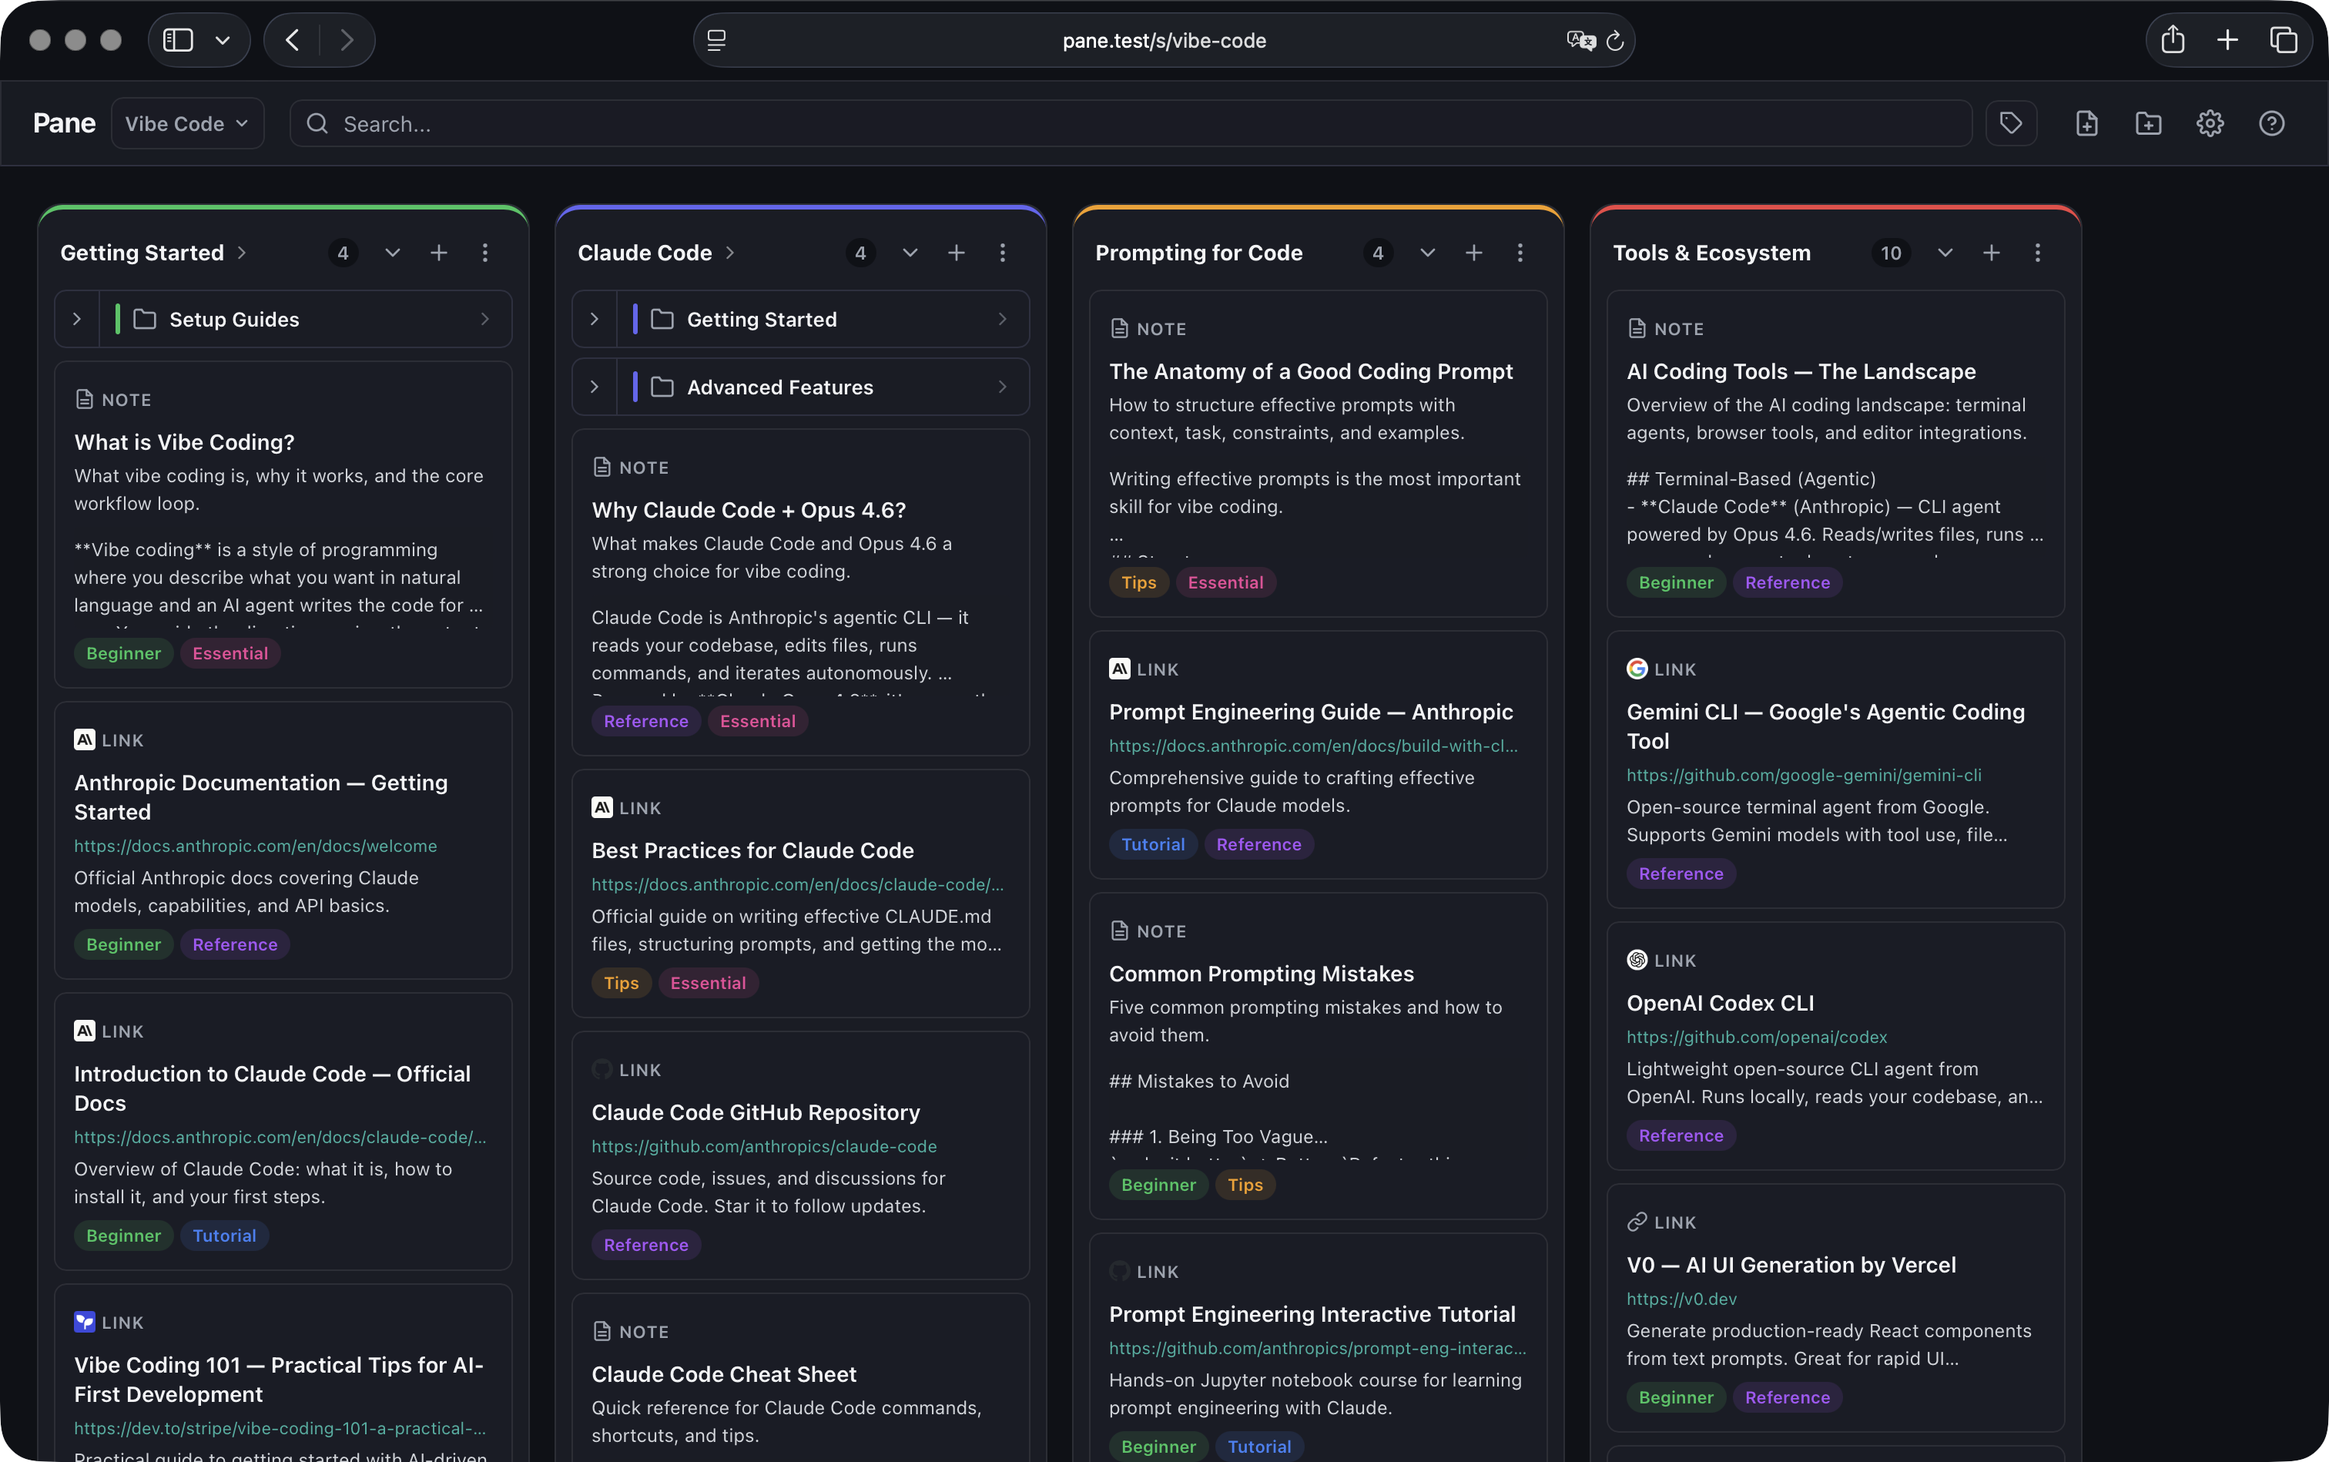
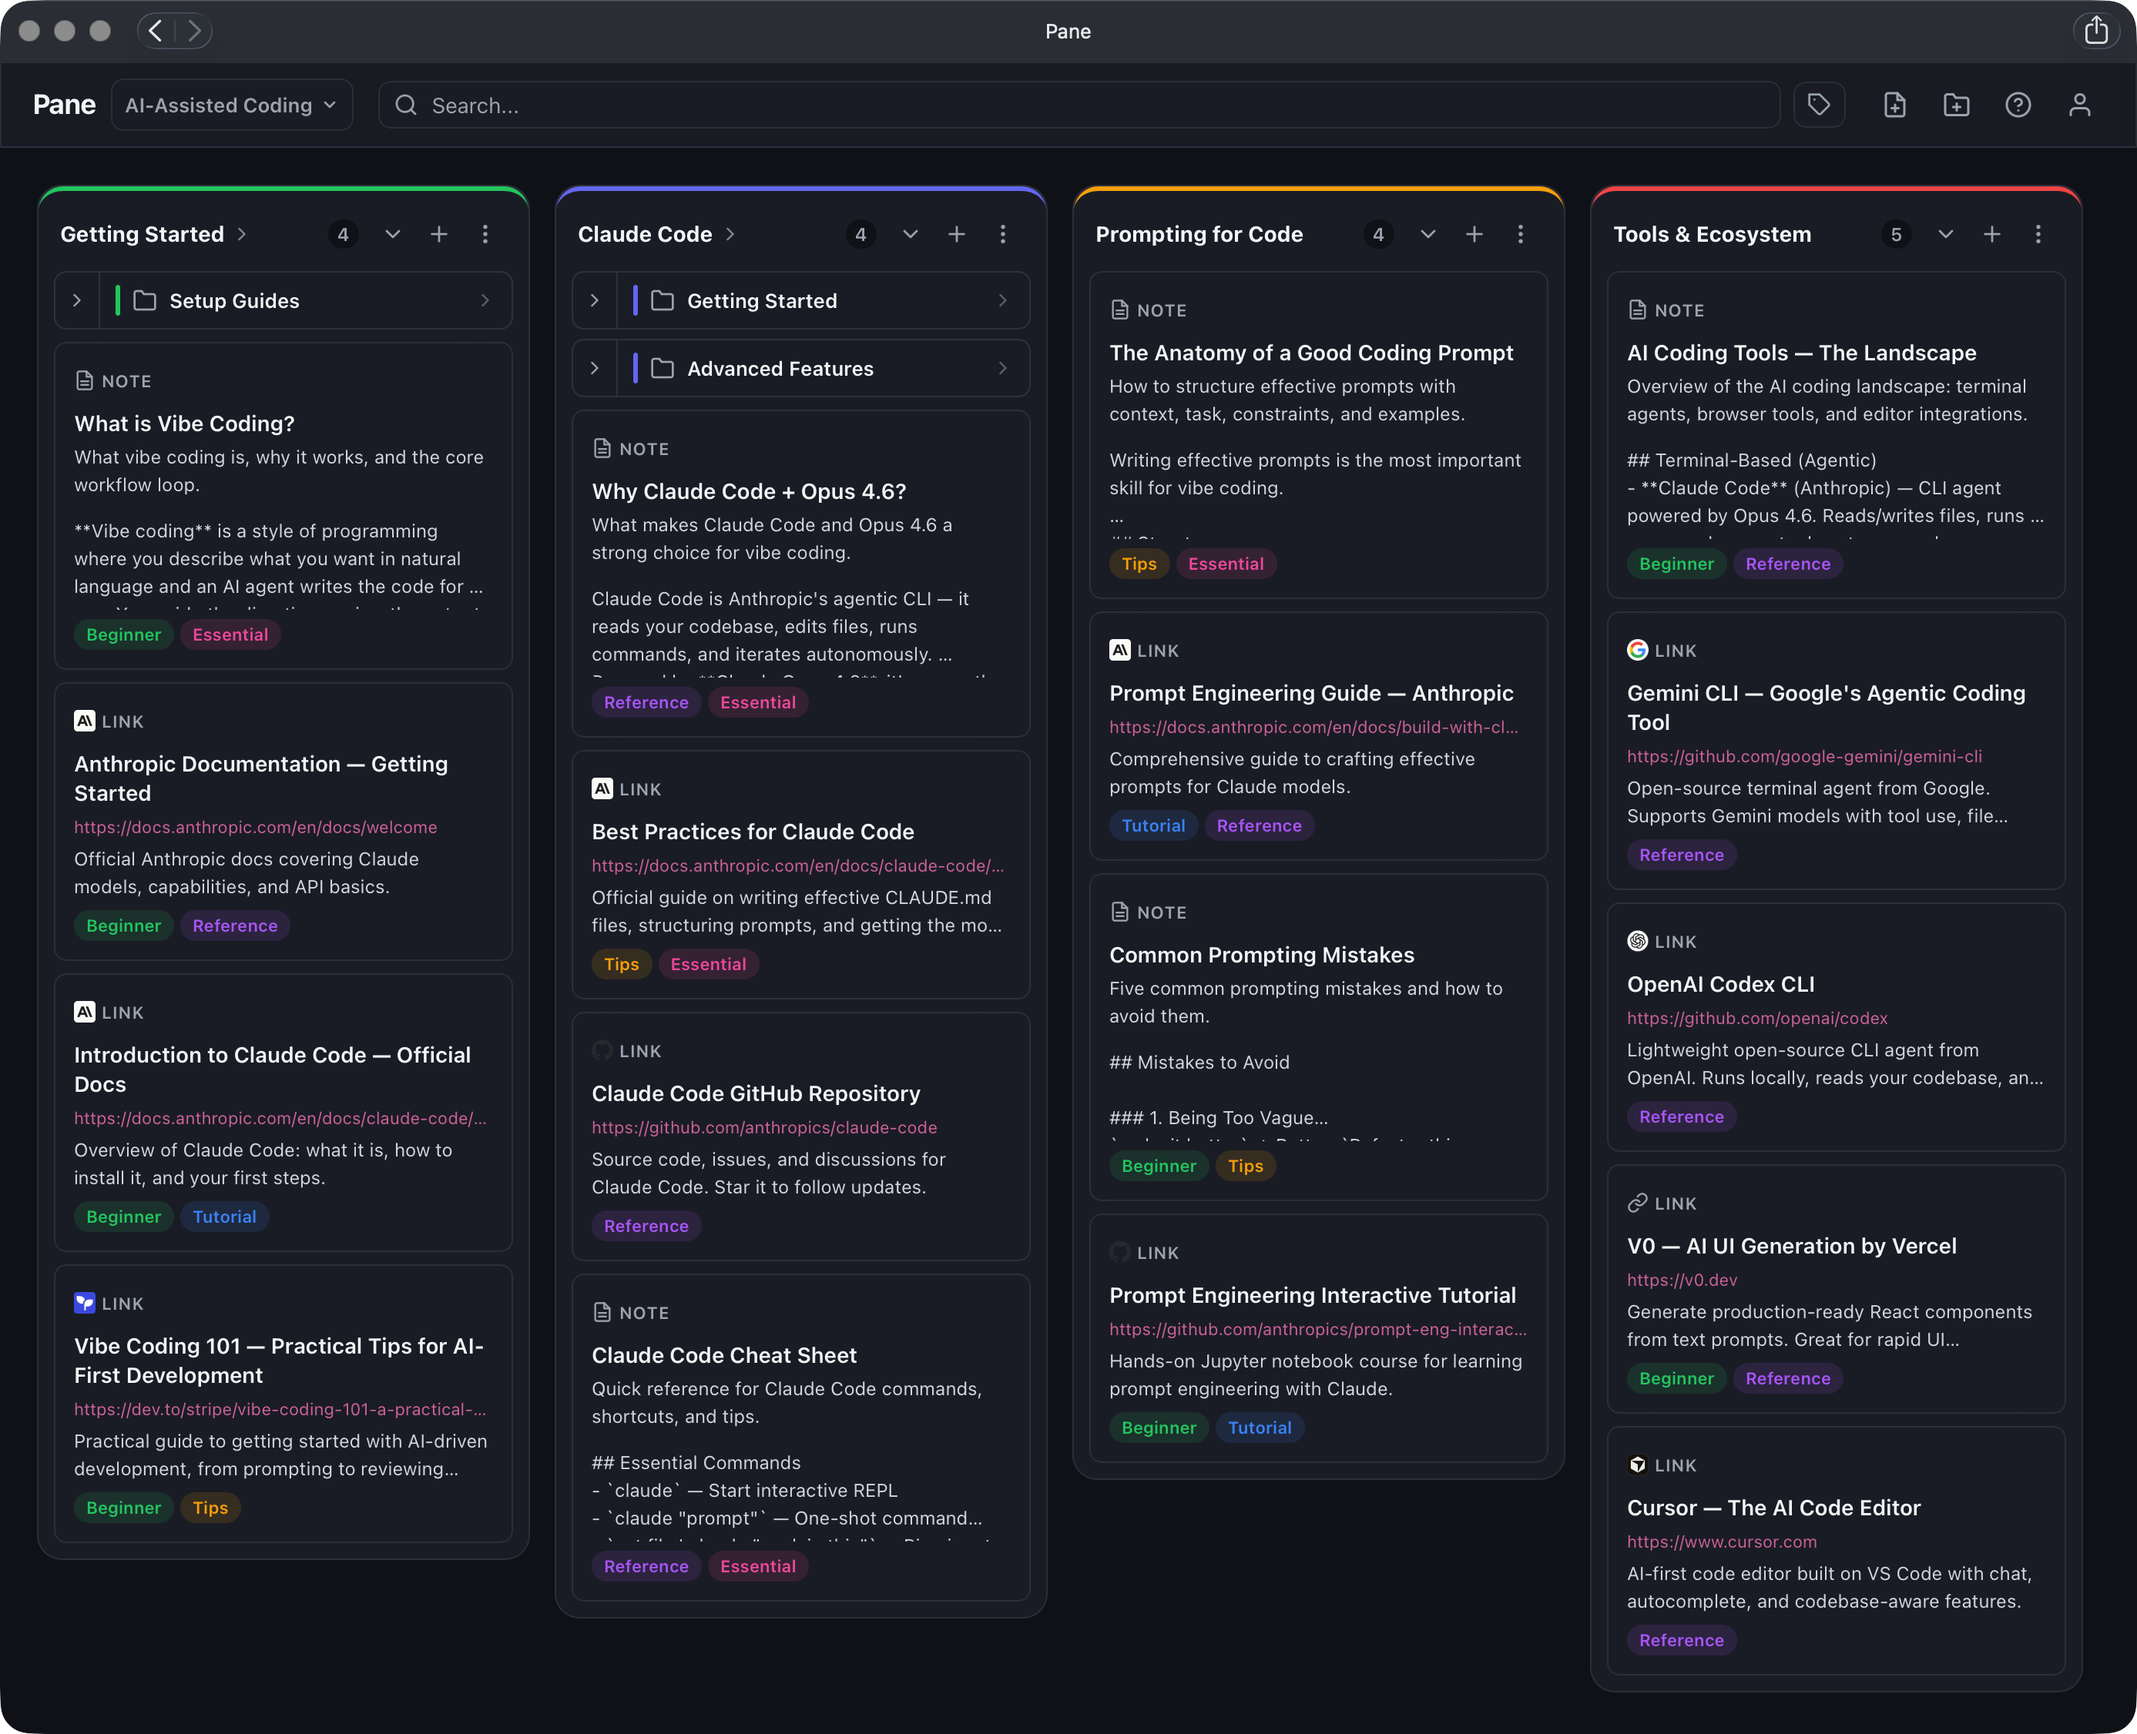
Fix security issue, remove dead code, and clean up duplicates
- Use crypto.randomInt() instead of Math.random() for password reset codes
- Replace 3 duplicate trapFocus implementations with shared action import
- Delete unused legacy schema.ts file
- Remove dead exports: needsFreshSetup(), slugExists()
- Fix unsafe type assertion in getLegacyGlobalDb() to return proper union type
- Track blur timeout for cleanup in SpaceSharingOverlay
- Update docs screenshot

diff --git a/src/lib/components/UserOverlay.svelte b/src/lib/components/UserOverlay.svelte
@@ -5,6 +5,7 @@
 	import { PALETTES, type PaletteId } from '$lib/stores/palette.svelte';
 	import { FONTS, type FontId } from '$lib/stores/font.svelte';
 	import { MONO_FONTS, type MonoFontId } from '$lib/stores/mono-font.svelte';
+	import { trapFocus } from '$lib/actions/trapFocus';
 
 	interface Props {
 		user?: { id: string; email: string; display_name: string; role: string } | null;
@@ -119,24 +120,6 @@
 
 	let isDark = $derived(themeMode === 'dark' || (themeMode === 'system' && typeof window !== 'undefined' && window.matchMedia('(prefers-color-scheme: dark)').matches));
 
-	function trapFocus(node: HTMLElement) {
-		const previouslyFocused = document.activeElement as HTMLElement;
-		function getFocusable() {
-			return node.querySelectorAll<HTMLElement>('button, [href], input, select, textarea, [tabindex]:not([tabindex="-1"])');
-		}
-		requestAnimationFrame(() => { getFocusable()[0]?.focus(); });
-		function handleTab(e: KeyboardEvent) {
-			if (e.key !== 'Tab') return;
-			const focusable = getFocusable();
-			if (focusable.length === 0) return;
-			const first = focusable[0];
-			const last = focusable[focusable.length - 1];
-			if (e.shiftKey) { if (document.activeElement === first) { e.preventDefault(); last.focus(); } }
-			else { if (document.activeElement === last) { e.preventDefault(); first.focus(); } }
-		}
-		node.addEventListener('keydown', handleTab);
-		return { destroy() { node.removeEventListener('keydown', handleTab); previouslyFocused?.focus(); } };
-	}
 </script>
 
 <!-- svelte-ignore a11y_no_noninteractive_tabindex -->

diff --git a/src/lib/components/TextFileOverlay.svelte b/src/lib/components/TextFileOverlay.svelte
@@ -2,6 +2,7 @@
 	import { marked } from 'marked';
 	import DOMPurify from 'dompurify';
 	import Icon from './Icon.svelte';
+	import { trapFocus } from '$lib/actions/trapFocus';
 
 	interface Props {
 		url: string;
@@ -50,24 +51,6 @@
 		if (e.target === e.currentTarget) onclose();
 	}
 
-	function trapFocus(node: HTMLElement) {
-		const previouslyFocused = document.activeElement as HTMLElement;
-		function getFocusable() {
-			return node.querySelectorAll<HTMLElement>('button, [href], input, select, textarea, [tabindex]:not([tabindex="-1"])');
-		}
-		requestAnimationFrame(() => { getFocusable()[0]?.focus(); });
-		function handleTab(e: KeyboardEvent) {
-			if (e.key !== 'Tab') return;
-			const focusable = getFocusable();
-			if (focusable.length === 0) return;
-			const first = focusable[0];
-			const last = focusable[focusable.length - 1];
-			if (e.shiftKey) { if (document.activeElement === first) { e.preventDefault(); last.focus(); } }
-			else { if (document.activeElement === last) { e.preventDefault(); first.focus(); } }
-		}
-		node.addEventListener('keydown', handleTab);
-		return { destroy() { node.removeEventListener('keydown', handleTab); previouslyFocused?.focus(); } };
-	}
 </script>
 
 <svelte:window onkeydown={handleKeydown} />

diff --git a/src/lib/components/MediaOverlay.svelte b/src/lib/components/MediaOverlay.svelte
@@ -7,6 +7,7 @@
 	}
 
 	import Icon from './Icon.svelte';
+	import { trapFocus } from '$lib/actions/trapFocus';
 
 	let { url, fileName, mimeType, onclose }: Props = $props();
 
@@ -30,24 +31,6 @@
 		if (e.target === e.currentTarget) onclose();
 	}
 
-	function trapFocus(node: HTMLElement) {
-		const previouslyFocused = document.activeElement as HTMLElement;
-		function getFocusable() {
-			return node.querySelectorAll<HTMLElement>('button, [href], input, select, textarea, [tabindex]:not([tabindex="-1"])');
-		}
-		requestAnimationFrame(() => { getFocusable()[0]?.focus(); });
-		function handleTab(e: KeyboardEvent) {
-			if (e.key !== 'Tab') return;
-			const focusable = getFocusable();
-			if (focusable.length === 0) return;
-			const first = focusable[0];
-			const last = focusable[focusable.length - 1];
-			if (e.shiftKey) { if (document.activeElement === first) { e.preventDefault(); last.focus(); } }
-			else { if (document.activeElement === last) { e.preventDefault(); first.focus(); } }
-		}
-		node.addEventListener('keydown', handleTab);
-		return { destroy() { node.removeEventListener('keydown', handleTab); previouslyFocused?.focus(); } };
-	}
 </script>
 
 <svelte:window onkeydown={handleKeydown} />

diff --git a/src/lib/server/db.ts b/src/lib/server/db.ts
@@ -108,11 +108,6 @@ export function getUserQuota(userId: string): number {
 
 // --- Legacy DB access (used during migration only) ---
 
-export function slugExists(slug: string): boolean {
-	if (!SLUG_RE.test(slug)) return false;
-	return fs.existsSync(path.join(DATA_DIR, `${slug}.db`));
-}
-
 function openLegacyDb(slug: string): Database.Database {
 	const dbPath = path.join(DATA_DIR, `${slug}.db`);
 	const db = new Database(dbPath);
@@ -143,12 +138,12 @@ export function closeLegacyDb(slug: string) {
 	}
 }
 
-export function getLegacyGlobalDb(): Database.Database {
+export function getLegacyGlobalDb(): Database.Database | null {
 	const cacheKey = '_legacy_global';
 	let db = cache.get(cacheKey);
 	if (!db) {
 		const dbPath = path.join(DATA_DIR, '_global.db');
-		if (!fs.existsSync(dbPath)) return null as unknown as Database.Database;
+		if (!fs.existsSync(dbPath)) return null;
 		db = openDbAt(dbPath);
 		cache.set(cacheKey, db);
 	}

diff --git a/src/lib/components/SpaceSharingOverlay.svelte b/src/lib/components/SpaceSharingOverlay.svelte
@@ -36,11 +36,15 @@
 	let showSuggestions = $state(false);
 	let highlightedIndex = $state(-1);
 	let searchTimeout: ReturnType<typeof setTimeout>;
+	let blurTimeout: ReturnType<typeof setTimeout>;
 	let inputEl = $state<HTMLInputElement | null>(null);
 
 	$effect(() => {
 		loadShares();
-		return () => clearTimeout(searchTimeout);
+		return () => {
+			clearTimeout(searchTimeout);
+			clearTimeout(blurTimeout);
+		};
 	});
 
 	async function loadShares() {
@@ -105,7 +109,7 @@
 
 	function handleInputBlur() {
 		// Delay to allow click on suggestion
-		setTimeout(() => { showSuggestions = false; }, 150);
+		blurTimeout = setTimeout(() => { showSuggestions = false; }, 150);
 	}
 
 	async function addShare() {

diff --git a/src/routes/api/auth/forgot-password/+server.ts b/src/routes/api/auth/forgot-password/+server.ts
@@ -1,4 +1,5 @@
 import { json } from '@sveltejs/kit';
+import { randomInt } from 'crypto';
 import type { RequestHandler } from './$types';
 import { getAuthDb } from '$lib/server/db';
 import { sendPasswordResetEmail } from '$lib/server/email';
@@ -39,7 +40,7 @@ export const POST: RequestHandler = async ({ request }) => {
 		// Delete old codes and create new one
 		authDb.prepare('DELETE FROM password_resets WHERE user_id = ?').run(user.id);
 
-		const code = String(Math.floor(100000 + Math.random() * 900000));
+		const code = String(randomInt(100000, 999999));
 		const expiresAt = new Date(Date.now() + 15 * 60 * 1000).toISOString();
 
 		authDb.prepare(

diff --git a/src/lib/server/migration.ts b/src/lib/server/migration.ts
@@ -32,10 +32,6 @@ export function needsMigration(): boolean {
 	return files.length > 0;
 }
 
-export function needsFreshSetup(): boolean {
-	return !authDbExists();
-}
-
 export function runMigration(): string {
 	const authDb = getAuthDb();
 
